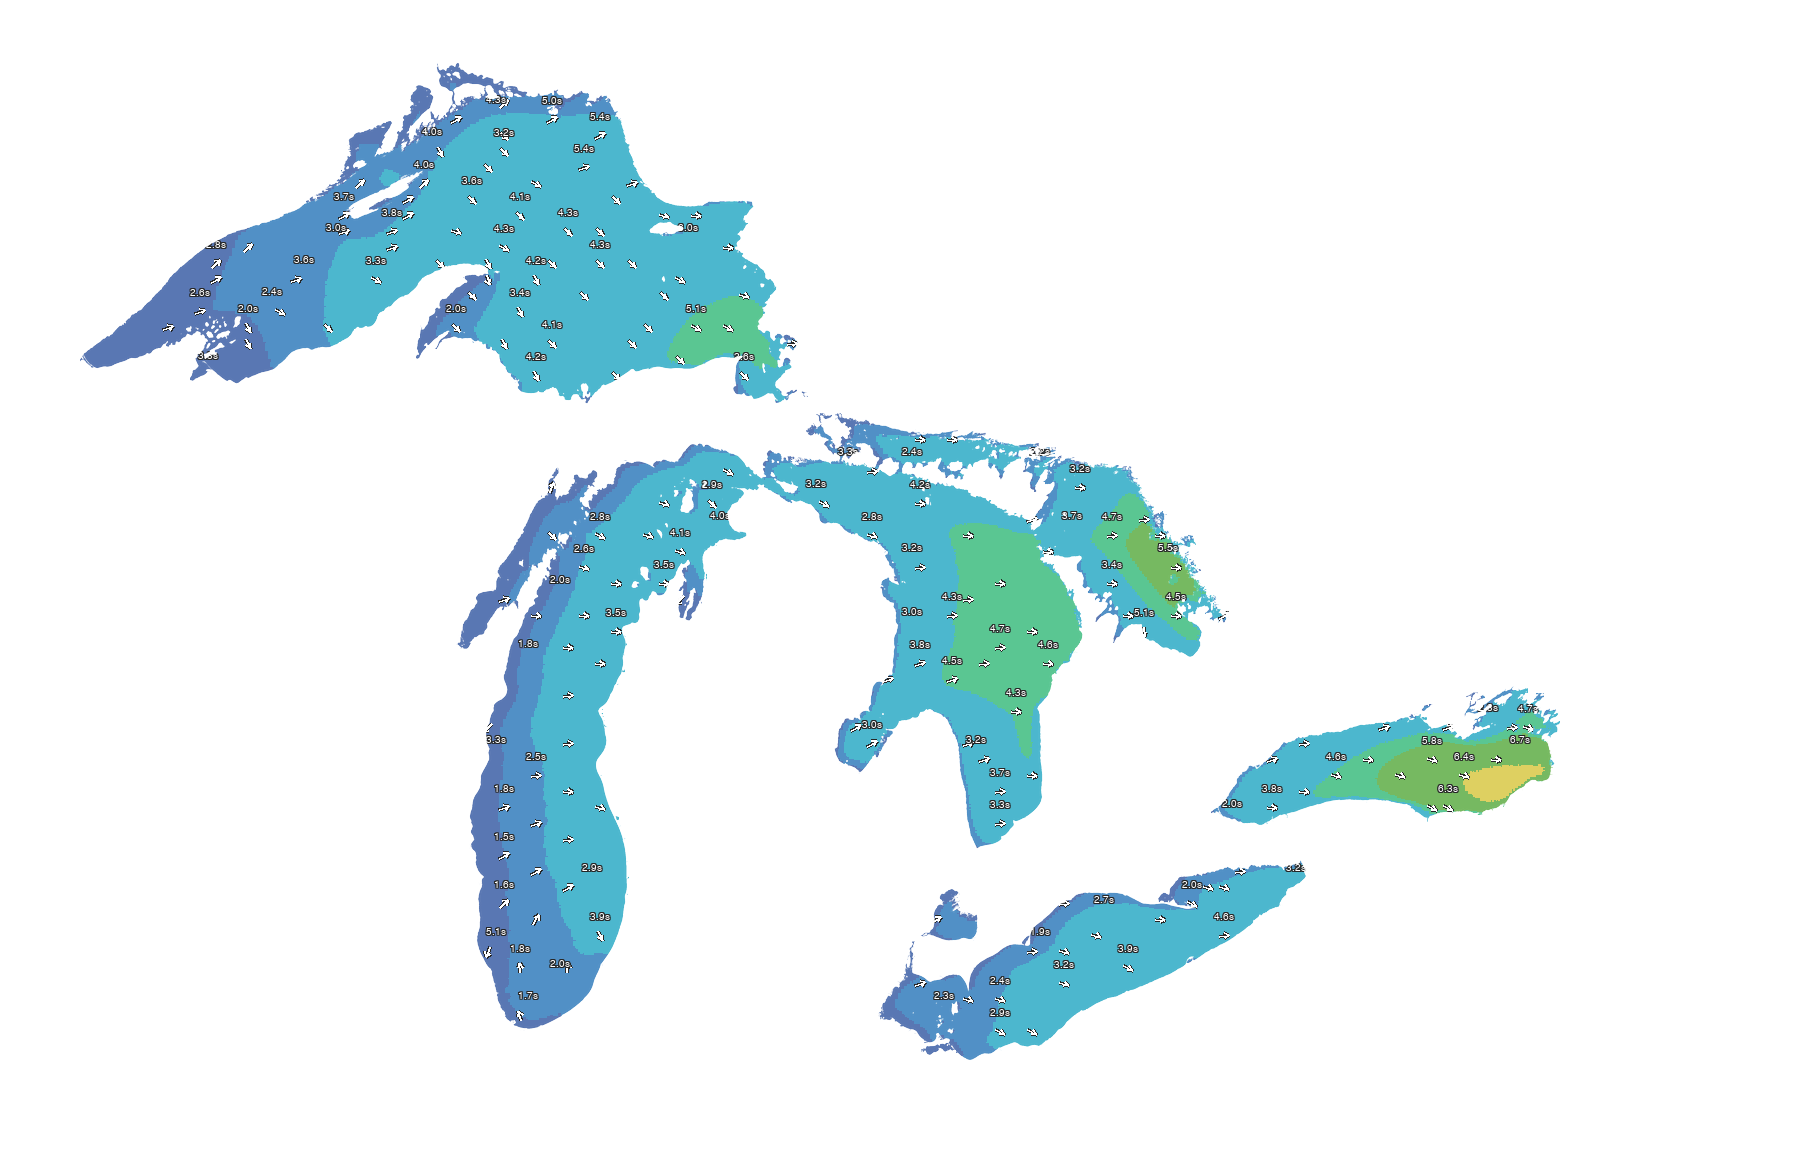
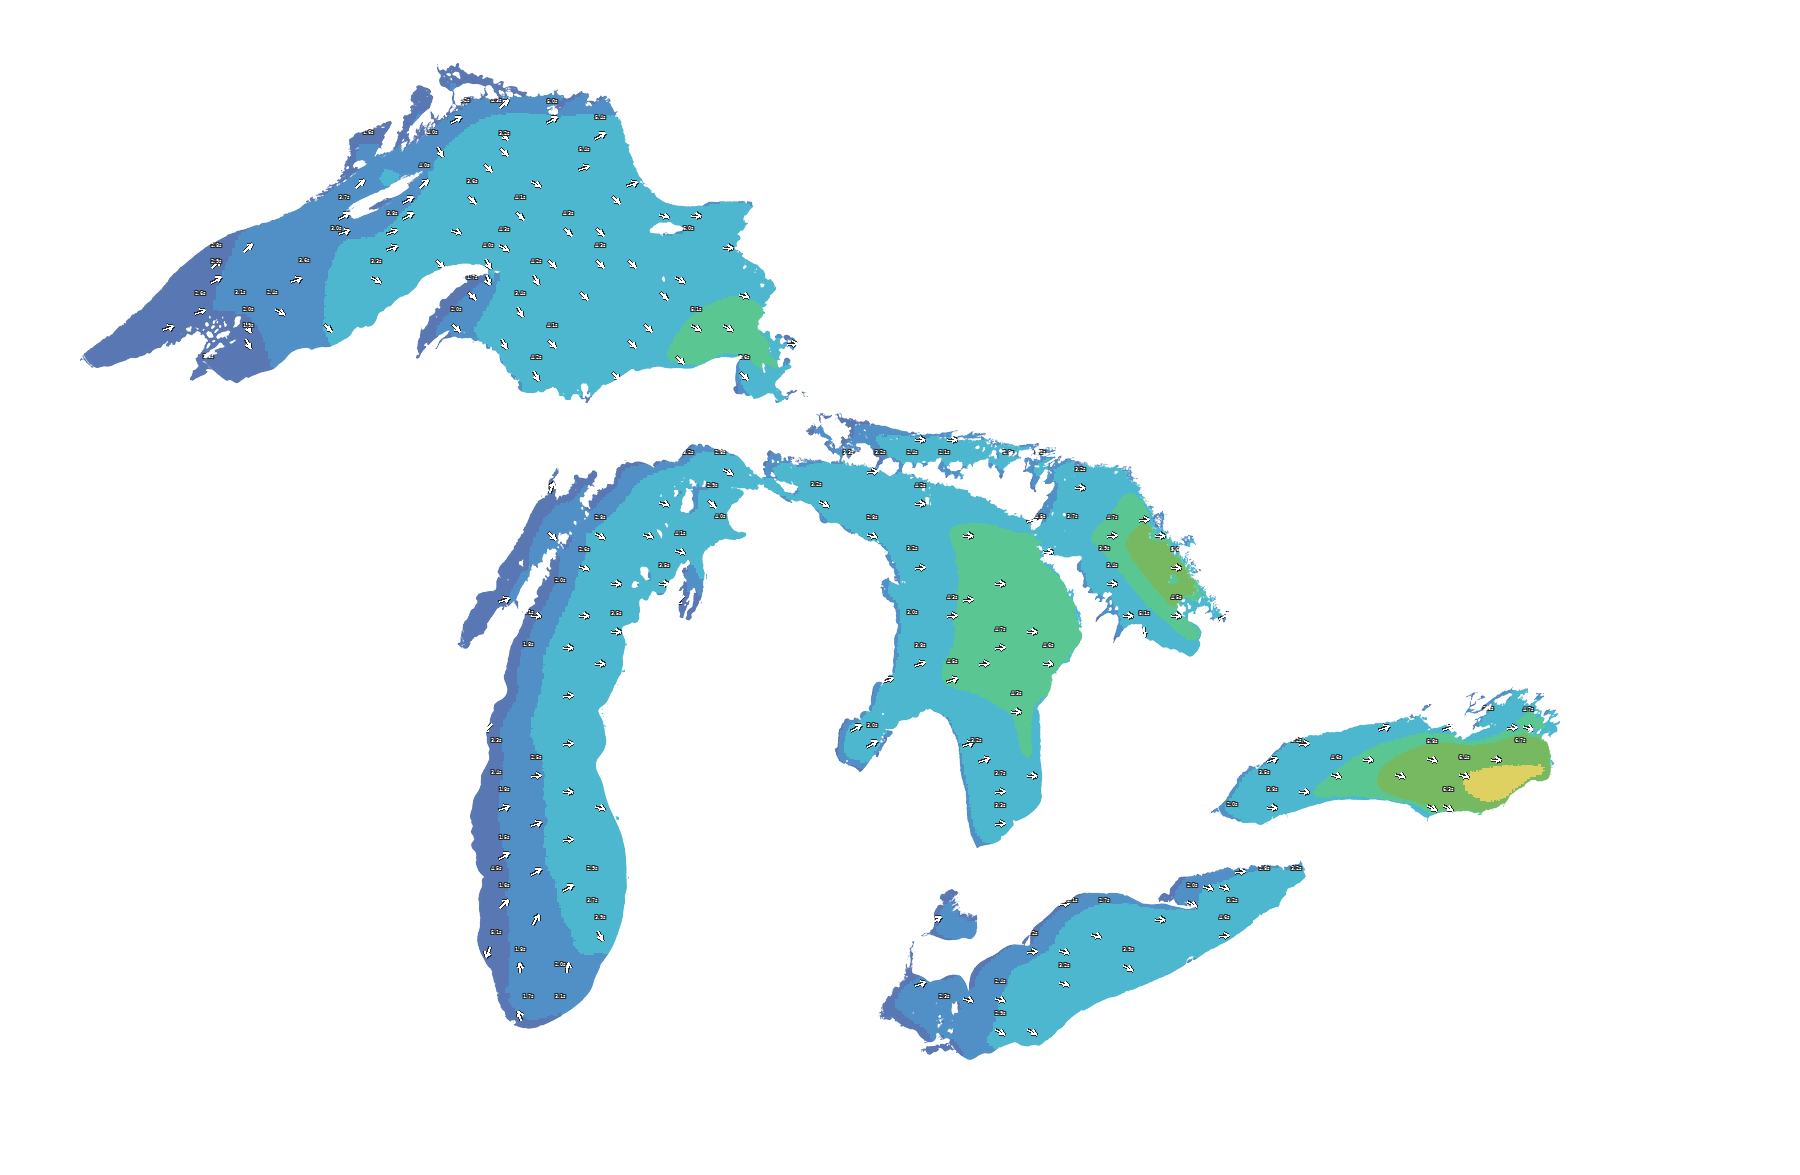
Wave combined: 5px period labels, DejaVu label font for tiny sizes

diff --git a/scripts/build_wave_combined.py b/scripts/build_wave_combined.py
@@ -182,9 +182,33 @@ def compass(deg):
 # the period field changes even with no arrow nearby.
 
 
-def _label_font(size=13):
+def _label_font(size=5):
+    """DejaVu Sans at any size (same face CI uses), halo-style labels.
+
+    _legend_font falls back to Helvetica.ttc on macOS, whose strikes fail
+    below 8 px (PIL division-by-zero) — so prefer explicit DejaVu paths
+    (repo runners ship fonts-dejavu-core; matplotlib bundles it locally).
+    """
+    import glob as _glob
+    from PIL import ImageFont as _IF
+    cands = [
+        "/usr/share/fonts/truetype/dejavu/DejaVuSans.ttf",
+    ]
+    try:
+        import matplotlib as _mpl
+        cands.append(os.path.join(os.path.dirname(_mpl.__file__),
+                                  "mpl-data", "fonts", "ttf", "DejaVuSans.ttf"))
+    except Exception:
+        pass
+    cands += _glob.glob("/System/Library/Fonts/Supplemental/DejaVuSans*.ttf")
+    cands += _glob.glob(os.path.expanduser("~/Library/Fonts/DejaVuSans.ttf"))
+    for path in cands:
+        try:
+            return _IF.truetype(path, size)
+        except (OSError, IOError):
+            continue
     from geospatial_utils import _legend_font
-    return _legend_font(size)
+    return _legend_font(max(size, 8))
 
 
 def _draw_halo_text(d, x, y, text, font):
@@ -450,8 +474,8 @@ def main():
         ap.add_argument("--extra-step", type=int, default=32)
         ap.add_argument("--extra-thresh", type=float, default=0.5,
                         help="period-change threshold (s) for extra labels")
-        ap.add_argument("--font-size", type=int, default=10,
-                        help="period label font size px (default 10)")
+        ap.add_argument("--font-size", type=int, default=5,
+                        help="period label font size px (default 5)")
         args = ap.parse_args()
         return run(local_file=args.local_file, label_every=args.label_every,
                    extra_step=args.extra_step, extra_thresh=args.extra_thresh,
@@ -464,7 +488,7 @@ def main():
 
 
 def run(local_file=None, label_every=2, extra_step=32, extra_thresh=0.5,
-        font_size=10):
+        font_size=5):
     now = datetime.now(timezone.utc)
     raw_path = os.path.join(RAW_DIR, "glwu_combined_current.grib2")
     used_url, datestr, cycle, stamp = None, None, None, None
@@ -516,7 +540,7 @@ def run(local_file=None, label_every=2, extra_step=32, extra_thresh=0.5,
 
 
 def _build(raw_path, used_url, datestr, cycle, source_id,
-           label_every, extra_step, extra_thresh, font_size=10):
+           label_every, extra_step, extra_thresh, font_size=5):
     stage = stage_dir(PRODUCT)
     stage_prod = os.path.join(stage, "site", PRODUCT)
     bounds = load_bounds()
